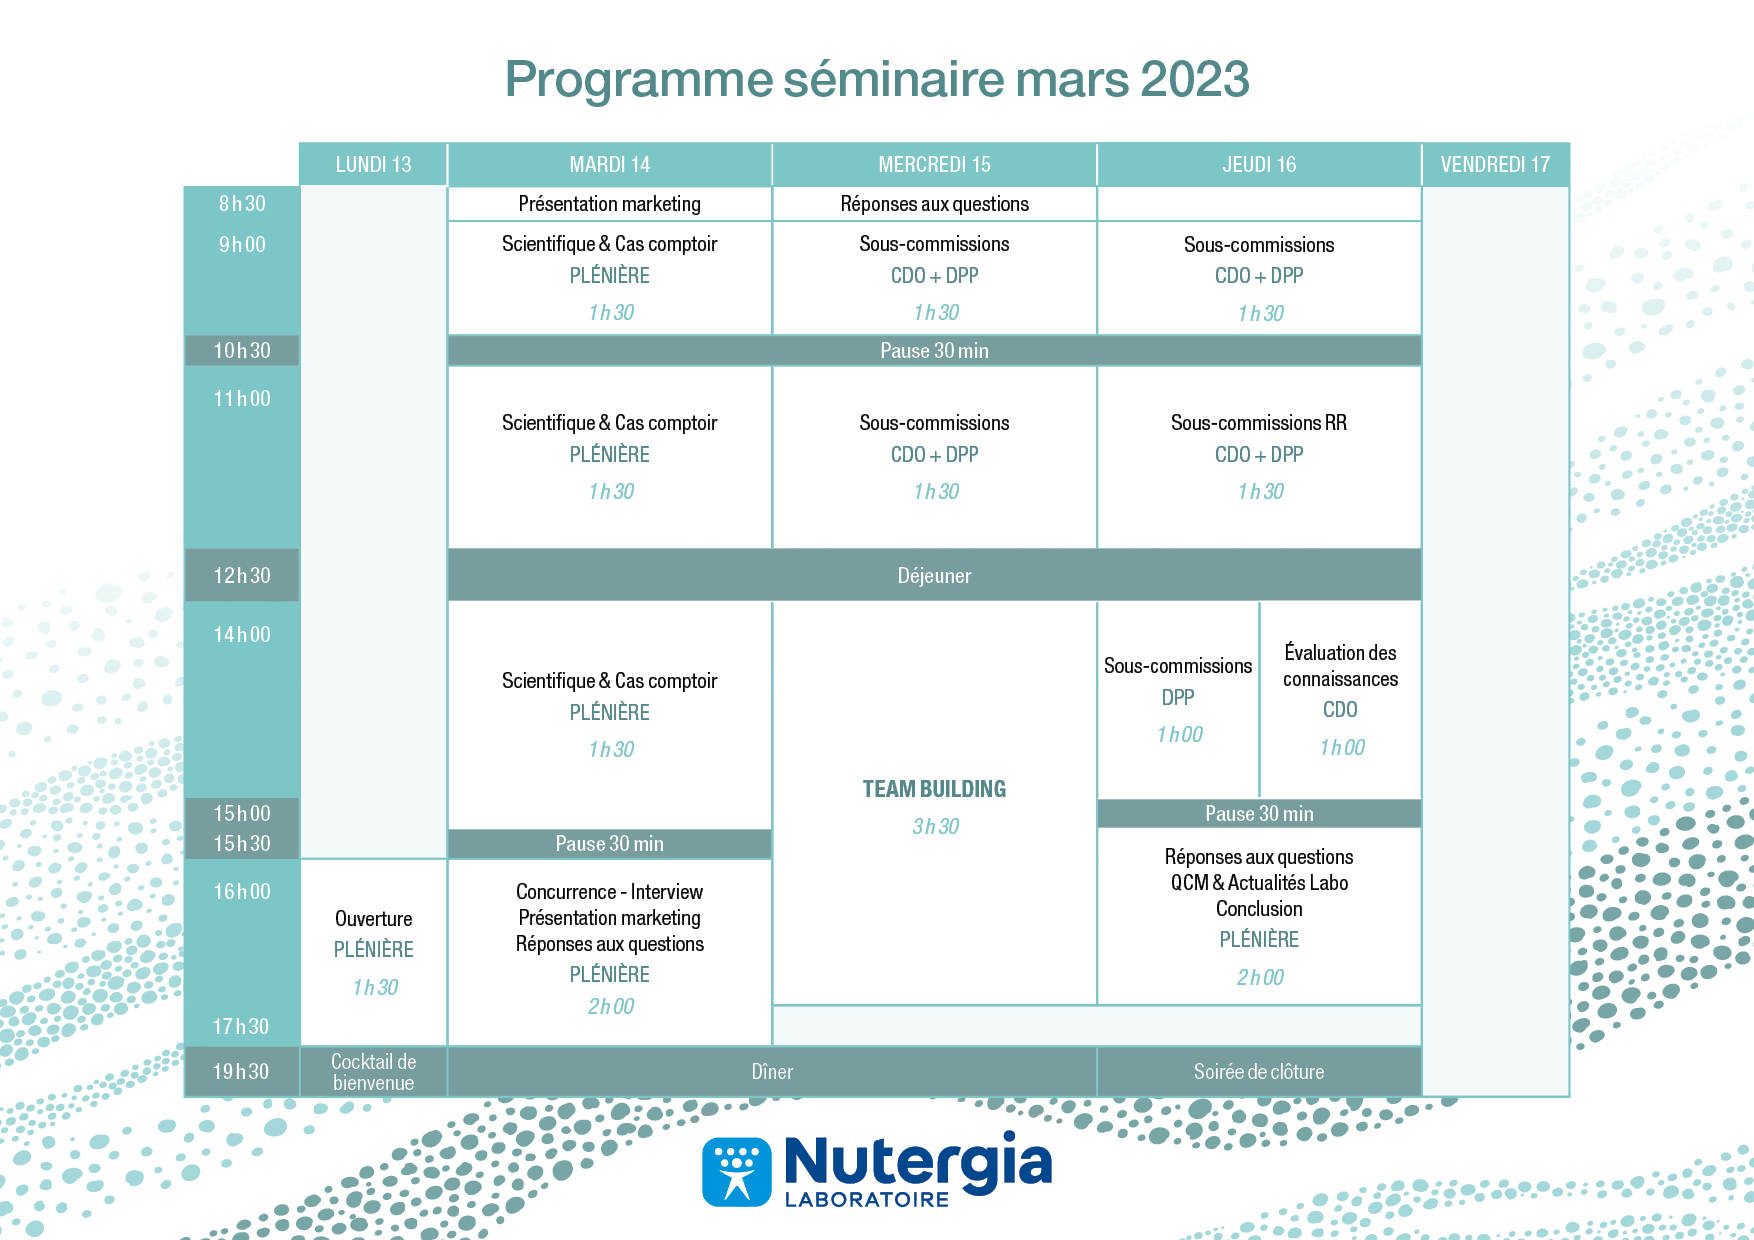
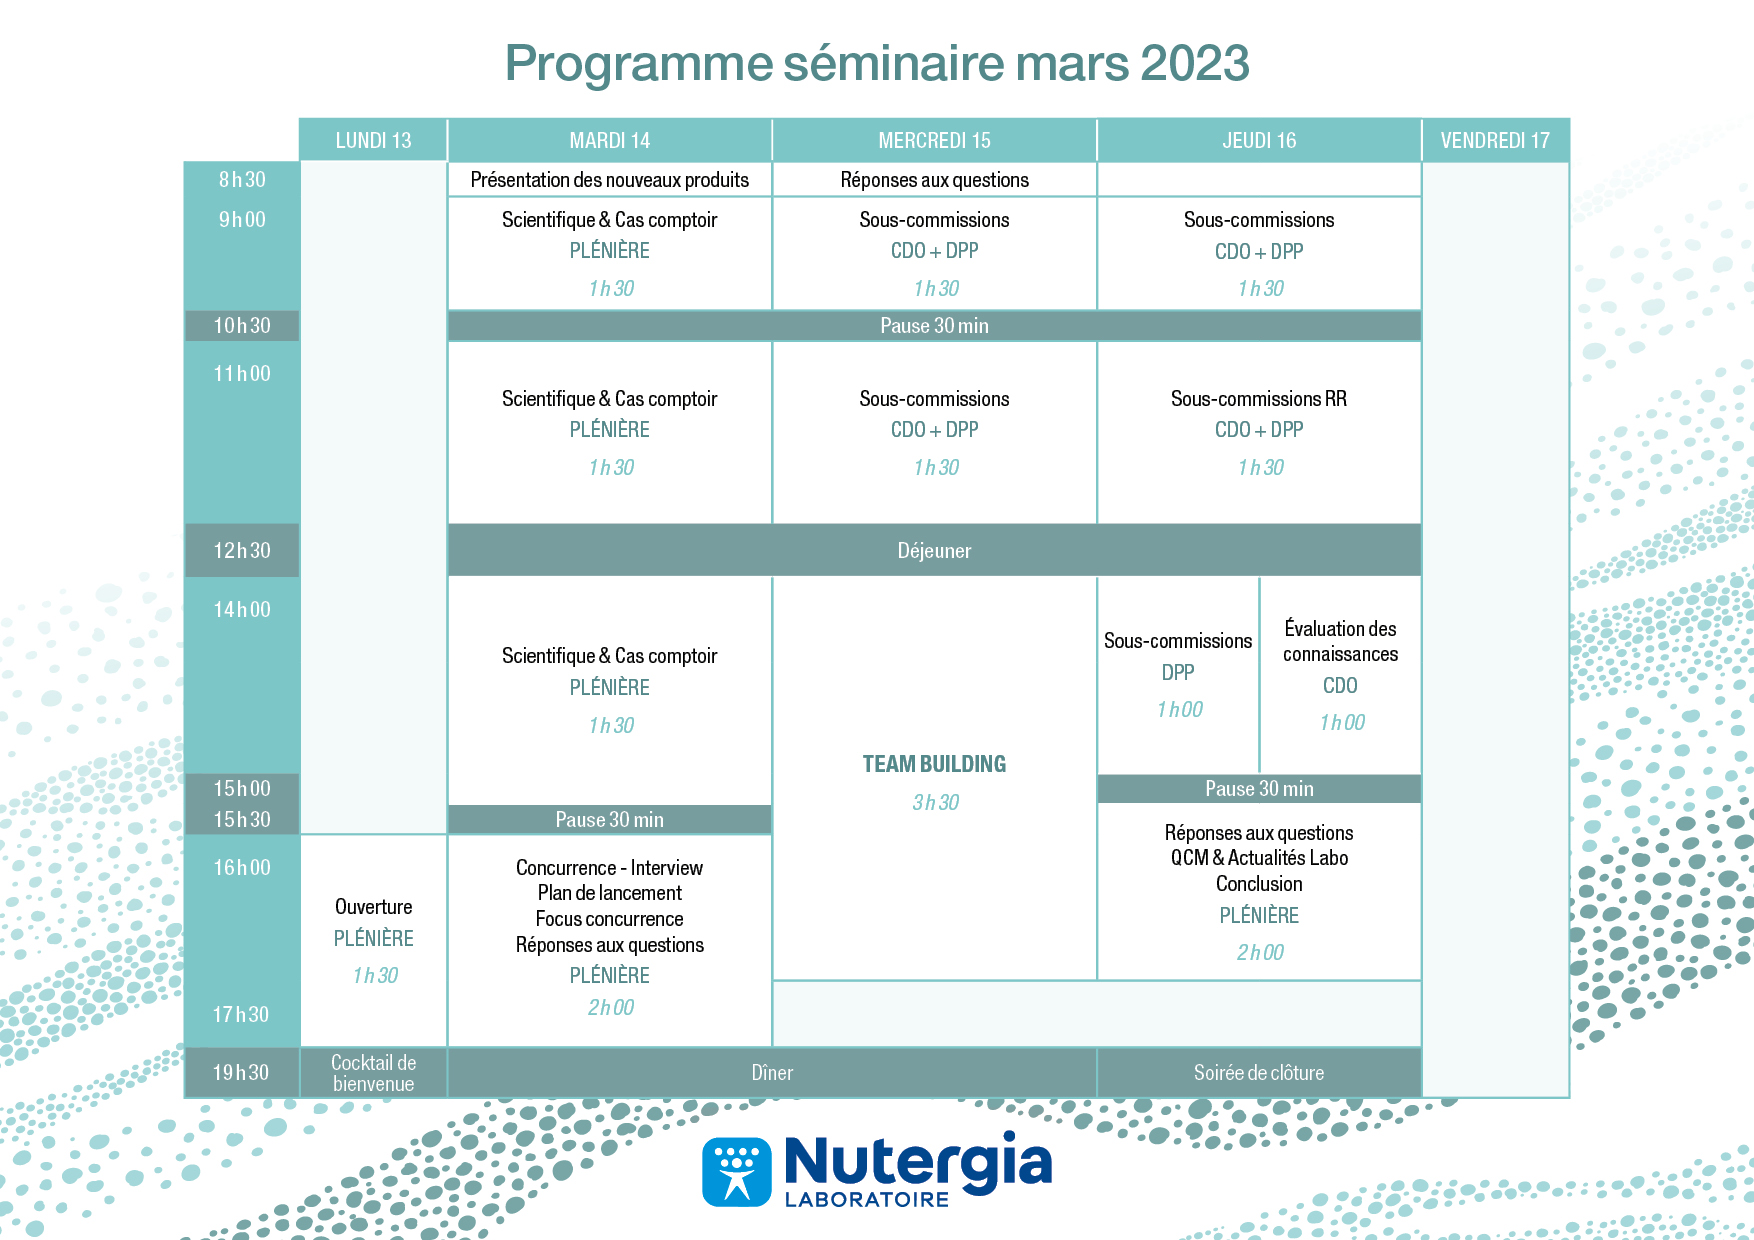
Update files

diff --git a/index.html b/index.html
@@ -92,7 +92,7 @@
 			<div class="benefits-list text-center mb-3">
 				<!--<h4 class="text-center mb-4">Au coeur des montagnes, à deux pas du lac de Génos</h4>-->
 				<ul class="list-unstyled text-start d-inline-block">
-					<li><i class="fas fa-check-circle me-2"></i><strong>Ateliers de travail</strong> :  sous-commissions, sessions CDO, actualités labo, outils & cas comptoirs...</li>
+					<li><i class="fas fa-check-circle me-2"></i><strong>Ateliers de travail</strong> : sous-commissions, présentations marketing-scientifique & cas comptoirs, actualités labo...</li>
 					<li><i class="fas fa-check-circle me-2"></i><strong>Retrouvailles</strong> et moments de partage au coeur de la vallée du Louron et du village de Loudenvielle.</li>
 					<li><i class="fas fa-check-circle me-2"></i><strong>Hébergement</strong> à l'hôtel Mercure Peyragudes Loudenvielle Pyrénées, en harmonie avec l'esprit architectural du Louron.</li>
 				</ul>
@@ -197,7 +197,7 @@
 						<div class="content">
 							<h3 class="title mb-3">Présentation marketing</h3>
 							<div class="location mb-3"><i class="fas fa-people-group me-2"></i>Plénière</div>
-							<div class="desc">Présentation des <strong>nouveaux produits</strong> et des outils d'aide à la vente.</div>
+							<div class="desc">Présentation des <strong>nouveaux produits</strong>.</div>
 						</div><!--//content-->
 					</div><!--//item-->
 					<div class="item item-talk">
@@ -270,7 +270,7 @@
 						<div class="content">
 							<h3 class="title mb-3">Présentation marketing</h3>
 							<div class="location mb-3"><i class="fas fa-people-group me-2"></i>Plénière</div>
-							<div class="desc">Concurrence - Interview - Réponses aux questions.</div>
+							<div class="desc">Plan de lancement - Focus concurrence - Réponses aux questions.</div>
 						</div><!--//content-->
 					</div><!--//item-->
 					<div class="item item-other">
